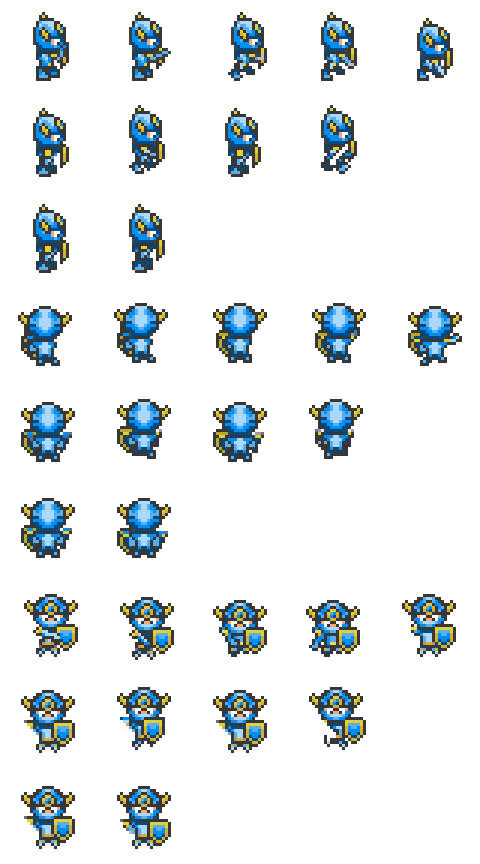
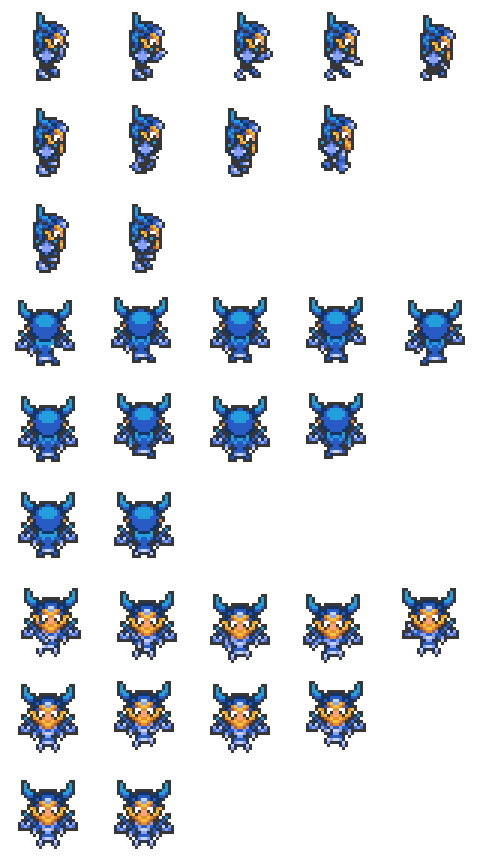
Add frozen armor

diff --git a/shared/js/gametypes.js b/shared/js/gametypes.js
@@ -90,6 +90,7 @@ Types = {
     PLATEARMOR: 24,
     REDARMOR: 25,
     GOLDENARMOR: 26,
+    BLUEARMOR: 87,
     FROZENARMOR: 78,
     HORNEDARMOR: 83,
 
@@ -206,6 +207,7 @@ Types.Entities.Armors = [
   Types.Entities.PLATEARMOR,
   Types.Entities.REDARMOR,
   Types.Entities.GOLDENARMOR,
+  Types.Entities.BLUEARMOR,
   Types.Entities.FROZENARMOR,
   Types.Entities.HORNEDARMOR,
 ];
@@ -261,8 +263,9 @@ var kinds = {
   platearmor: [Types.Entities.PLATEARMOR, "armor", "Plate Armor", 5, 10],
   redarmor: [Types.Entities.REDARMOR, "armor", "Ruby Armor", 7, 15],
   goldenarmor: [Types.Entities.GOLDENARMOR, "armor", "Golden Armor", 10, 20],
-  frozenarmor: [Types.Entities.FROZENARMOR, "armor", "Frozen Armor", 14, 24],
-  hornedarmor: [Types.Entities.HORNEDARMOR, "armor", "Horned Armor", 14, 28],
+  bluearmor: [Types.Entities.BLUEARMOR, "armor", "Sapphire Armor", 14, 24],
+  frozenarmor: [Types.Entities.FROZENARMOR, "armor", "Frozen Armor", 14, 28],
+  hornedarmor: [Types.Entities.HORNEDARMOR, "armor", "Horned Armor", 14, 30],
   firefox: [Types.Entities.FIREFOX, "armor"],
 
   // kind, type, level, defense
@@ -341,6 +344,7 @@ Types.rankedArmors = [
   Types.Entities.PLATEARMOR,
   Types.Entities.REDARMOR,
   Types.Entities.GOLDENARMOR,
+  Types.Entities.BLUEARMOR,
   Types.Entities.FROZENARMOR,
   Types.Entities.HORNEDARMOR,
 ];

diff --git a/client/js/sprites.js b/client/js/sprites.js
@@ -19,6 +19,7 @@ define([
   "text!../sprites/forestnpc.json",
   "text!../sprites/goblin.json",
   "text!../sprites/goldenarmor.json",
+  "text!../sprites/bluearmor.json",
   "text!../sprites/frozenarmor.json",
   "text!../sprites/hornedarmor.json",
   "text!../sprites/goldensword.json",
@@ -45,6 +46,7 @@ define([
   "text!../sprites/item-scrollupgrademedium.json",
   "text!../sprites/item-scrollupgradehigh.json",
   "text!../sprites/item-goldenarmor.json",
+  "text!../sprites/item-bluearmor.json",
   "text!../sprites/item-frozenarmor.json",
   "text!../sprites/item-hornedarmor.json",
   "text!../sprites/item-beltleather.json",

diff --git a/client/js/game.js b/client/js/game.js
@@ -169,6 +169,7 @@ define([
         "platearmor",
         "redarmor",
         "goldenarmor",
+        "bluearmor",
         "frozenarmor",
         "hornedarmor",
         "firefox",
@@ -192,6 +193,7 @@ define([
         "item-platearmor",
         "item-redarmor",
         "item-goldenarmor",
+        "item-bluearmor",
         "item-frozenarmor",
         "item-hornedarmor",
         "item-beltleather",

diff --git a/client/js/items.js b/client/js/items.js
@@ -84,6 +84,13 @@ define(["item"], function (Item) {
       },
     }),
 
+    BlueArmor: Item.extend({
+      init: function (id) {
+        this._super(id, Types.Entities.BLUEARMOR, "armor");
+        this.lootMessage = "You pick up a sapphire armor";
+      },
+    }),
+
     FrozenArmor: Item.extend({
       init: function (id) {
         this._super(id, Types.Entities.FROZENARMOR, "armor");

diff --git a/client/js/entityfactory.js b/client/js/entityfactory.js
@@ -124,6 +124,10 @@ define(["mobs", "items", "npcs", "warrior", "chest"], function (Mobs, Items, NPC
     return new Items.GoldenArmor(id);
   };
 
+  EntityFactory.builders[Types.Entities.BLUEARMOR] = function (id) {
+    return new Items.BlueArmor(id);
+  };
+
   EntityFactory.builders[Types.Entities.FROZENARMOR] = function (id) {
     return new Items.FrozenArmor(id);
   };
